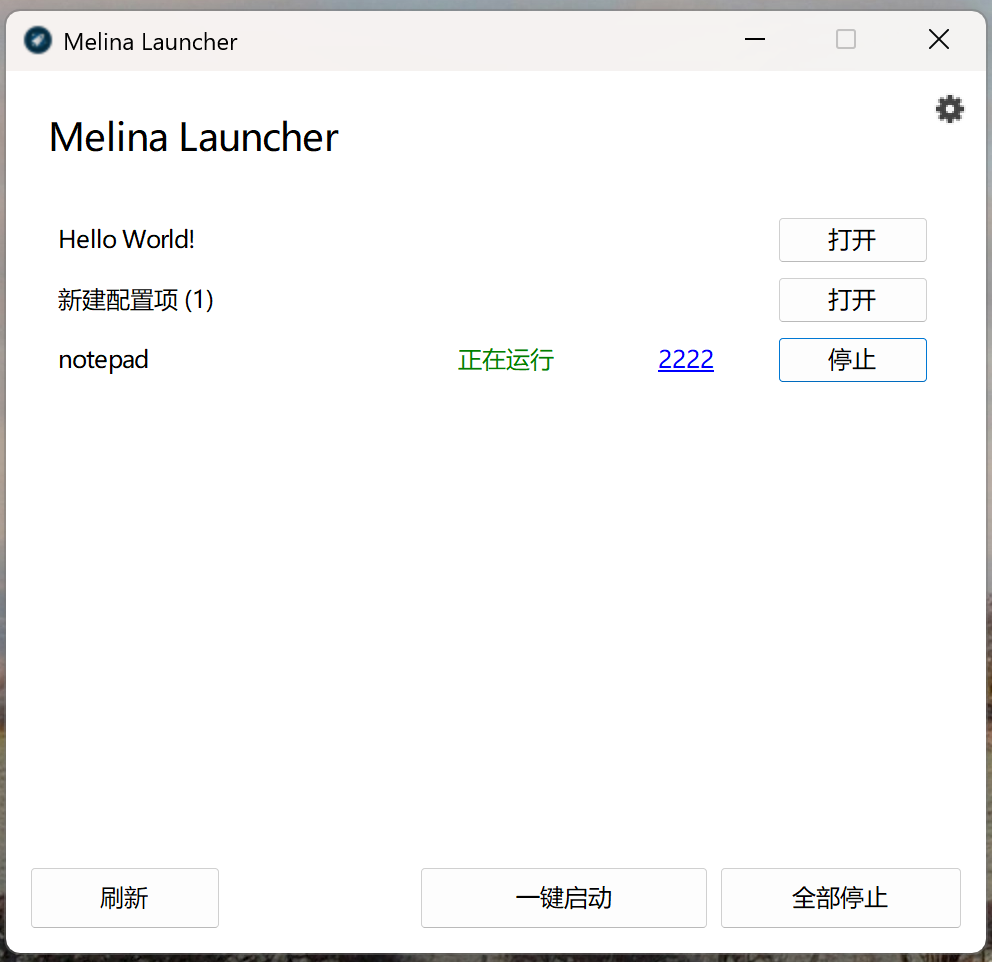
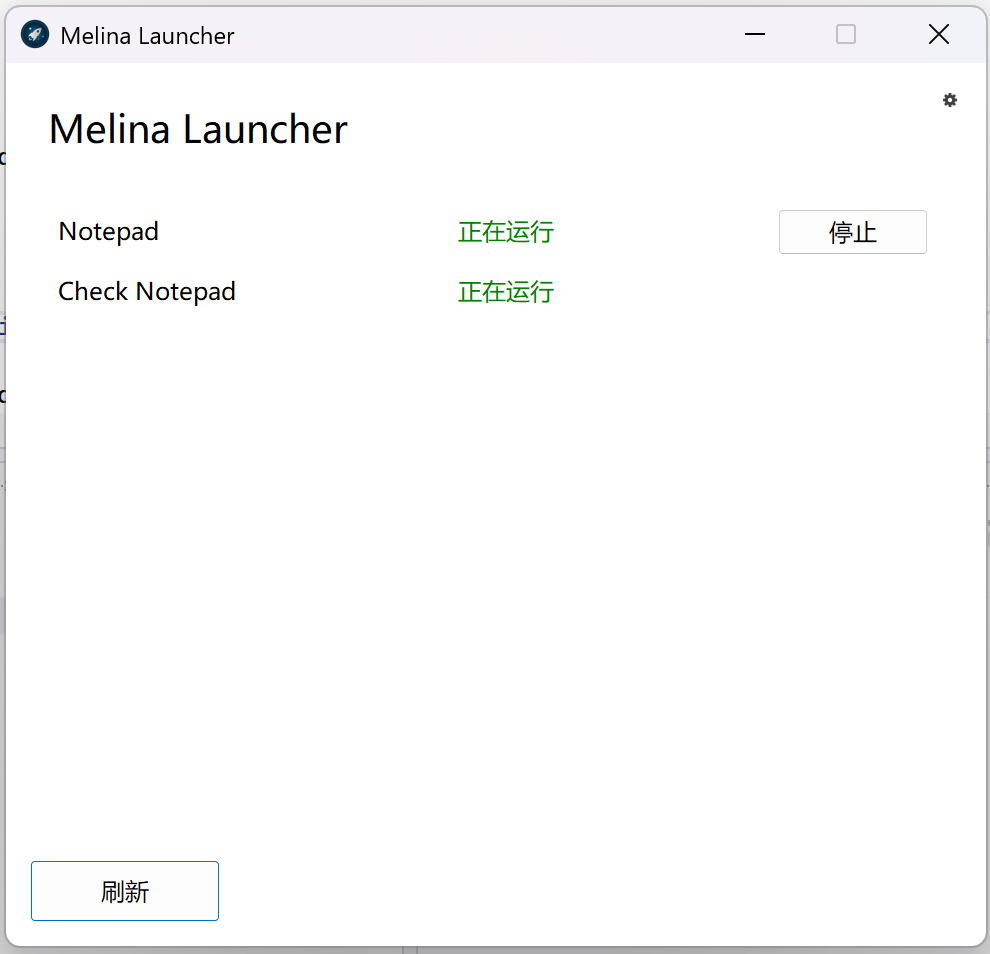
update README.md

diff --git a/README.md b/README.md
@@ -6,18 +6,6 @@
 
 <img src="docs/main1.png" width=600>
 
-## Enable High DPI
-
-To enable high DPI, use windows system's High DPI setting.
-
-1. Select **Properties** -> **Compatiblity** -> **Change high DPI settings** .
-
-2. Check **Override high DPI scaling behavior**.
-
-3. Select **System (Enhanced)**.
-
-![](docs/dpi.png)
-
 ------------------------
 
 Created by Melina in Nov 2020
